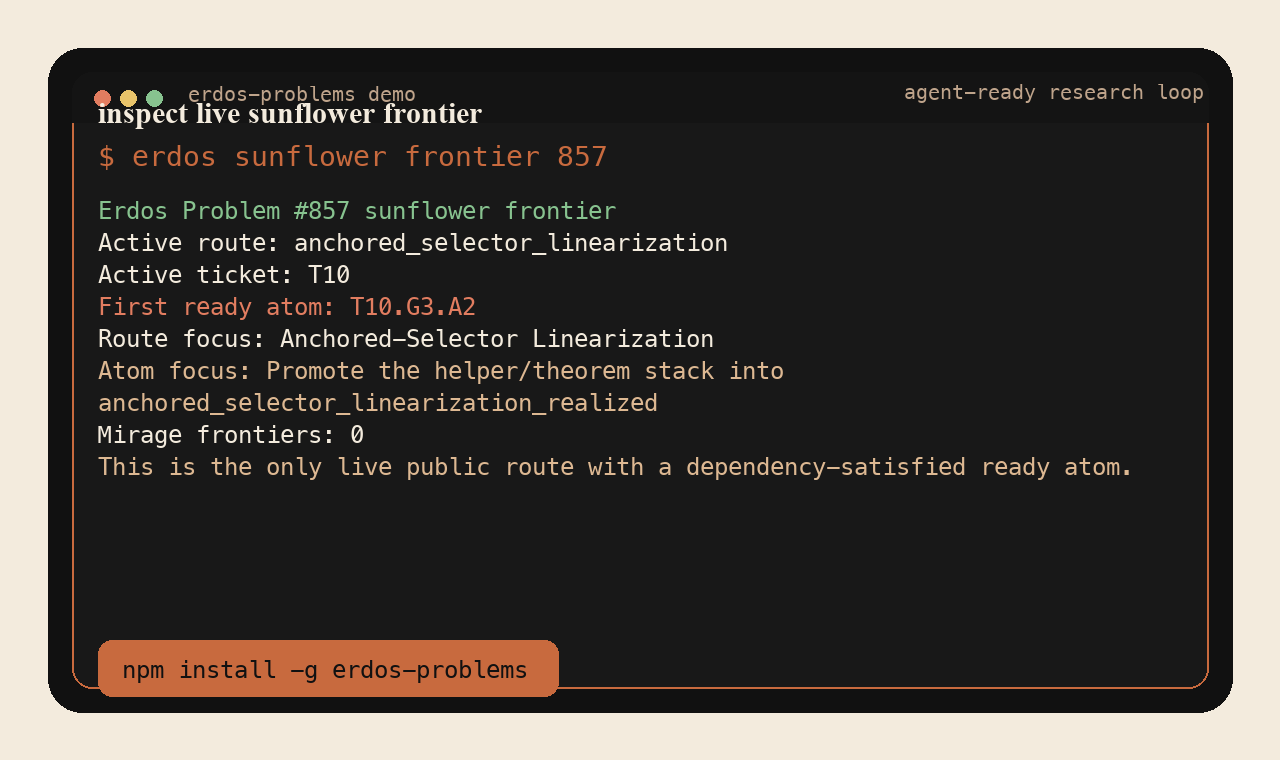
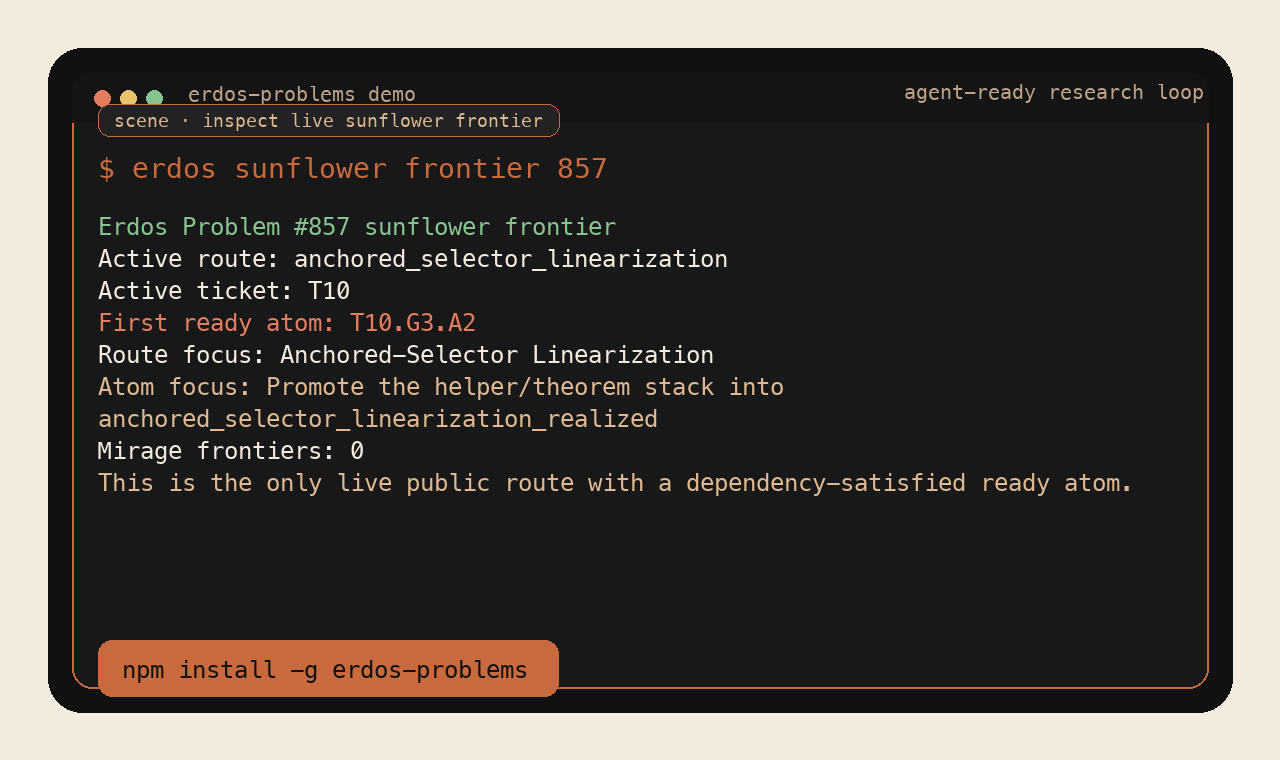
design: improve terminal demo header layout

Changed region(s): [[0.0625, 0.2724, 0.875, 0.6658], [0.0625, 0.1211, 0.4375, 0.2421], [0.4375, 0.1816, 0.4688, 0.2421]]

diff --git a/scripts/render-terminal-demo.py b/scripts/render-terminal-demo.py
@@ -24,15 +24,18 @@ RED = '#E27D60'
 
 FONT_MONO = '/System/Library/Fonts/Menlo.ttc'
 FONT_SERIF_BOLD = '/System/Library/Fonts/Supplemental/Times New Roman Bold.ttf'
+MONO_18 = ImageFont.truetype(FONT_MONO, 18)
 MONO_20 = ImageFont.truetype(FONT_MONO, 20)
 MONO_24 = ImageFont.truetype(FONT_MONO, 24)
 MONO_28 = ImageFont.truetype(FONT_MONO, 28)
+SERIF_26 = ImageFont.truetype(FONT_SERIF_BOLD, 26)
 SERIF_30 = ImageFont.truetype(FONT_SERIF_BOLD, 30)
 SERIF_36 = ImageFont.truetype(FONT_SERIF_BOLD, 36)
 
 LINE_HEIGHT = 32
 CONTENT_X = 98
-CONTENT_Y = 140
+SCENE_Y = 104
+CONTENT_Y = 152
 CONTENT_WIDTH = WIDTH - CONTENT_X - 88
 MAX_LINES = 15
 
@@ -122,12 +125,16 @@ def draw_terminal_base():
 def render_scene(scene, typed_chars=None, shown_lines=0, cursor=False):
     image, draw = draw_terminal_base()
     label = scene['label']
-    draw.text((CONTENT_X, 96), label, font=SERIF_30, fill=CREAM)
+    pill_text = f"scene · {label}"
+    pill_bbox = draw.textbbox((0, 0), pill_text, font=MONO_18)
+    pill_w = (pill_bbox[2] - pill_bbox[0]) + 32
+    draw.rounded_rectangle((CONTENT_X, SCENE_Y, CONTENT_X + pill_w, SCENE_Y + 32), radius=12, fill='#222222', outline=ACCENT, width=1)
+    draw.text((CONTENT_X + 16, SCENE_Y + 6), pill_text, font=MONO_18, fill=SAND)
     prompt = '$ '
     command = scene['command'] if typed_chars is None else scene['command'][:typed_chars]
     command_text = prompt + command + ('_' if cursor else '')
     draw.text((CONTENT_X, CONTENT_Y), command_text, font=MONO_28, fill=ACCENT)
-    y = CONTENT_Y + 56
+    y = CONTENT_Y + 60
     visible = scene['output'][:shown_lines]
     for text, color in visible:
         wrapped = wrap_line(text, MONO_24, CONTENT_WIDTH)
